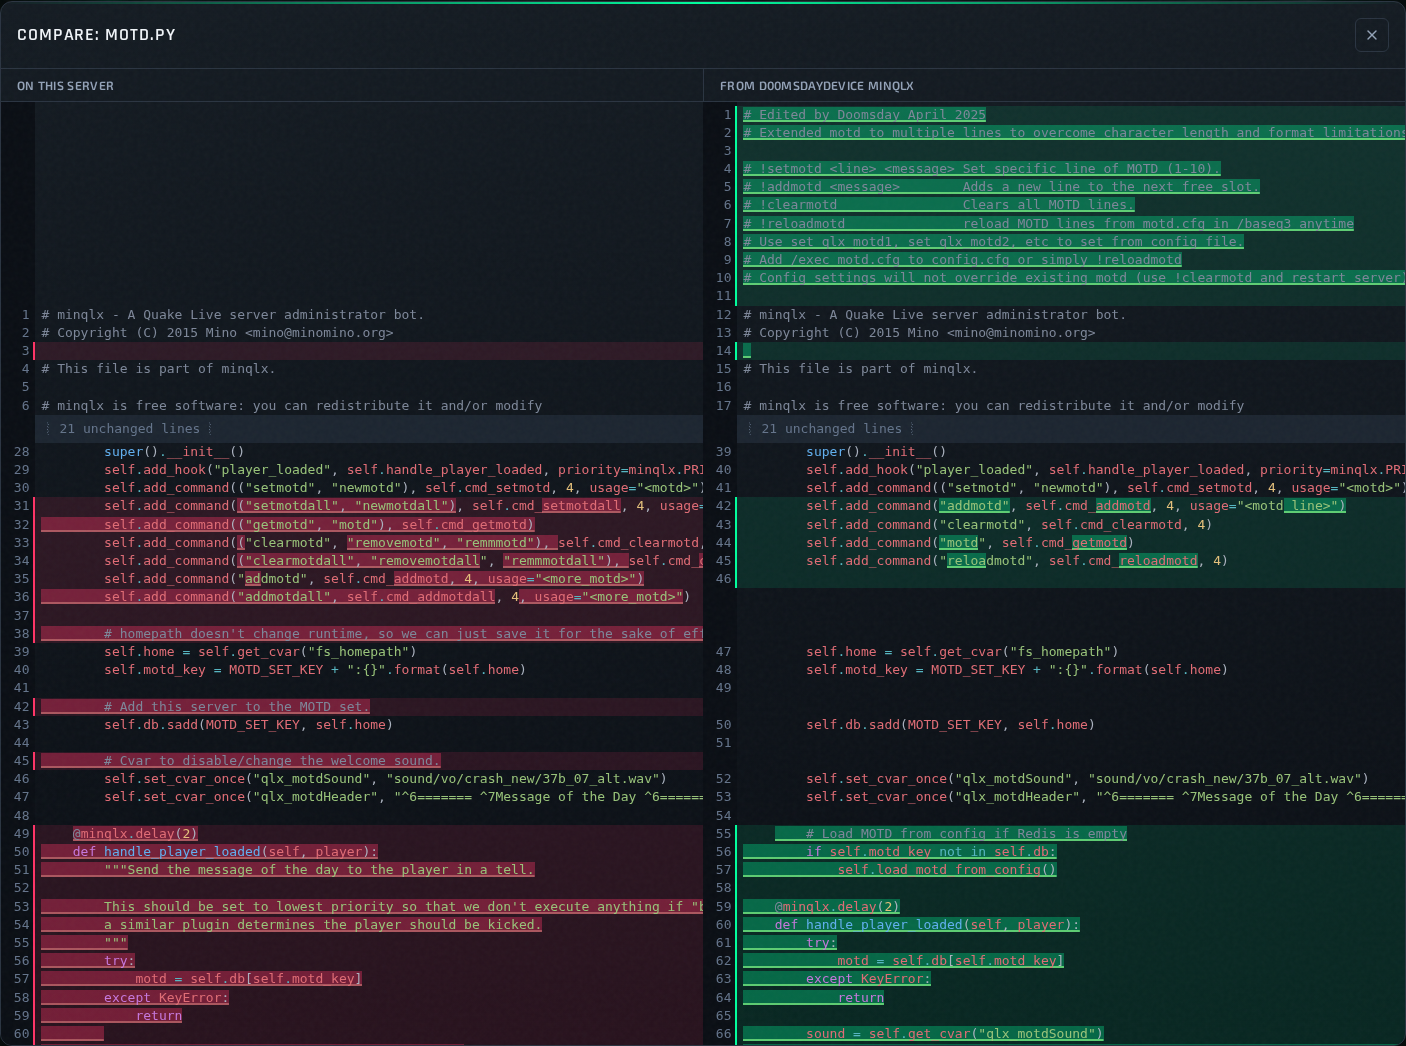
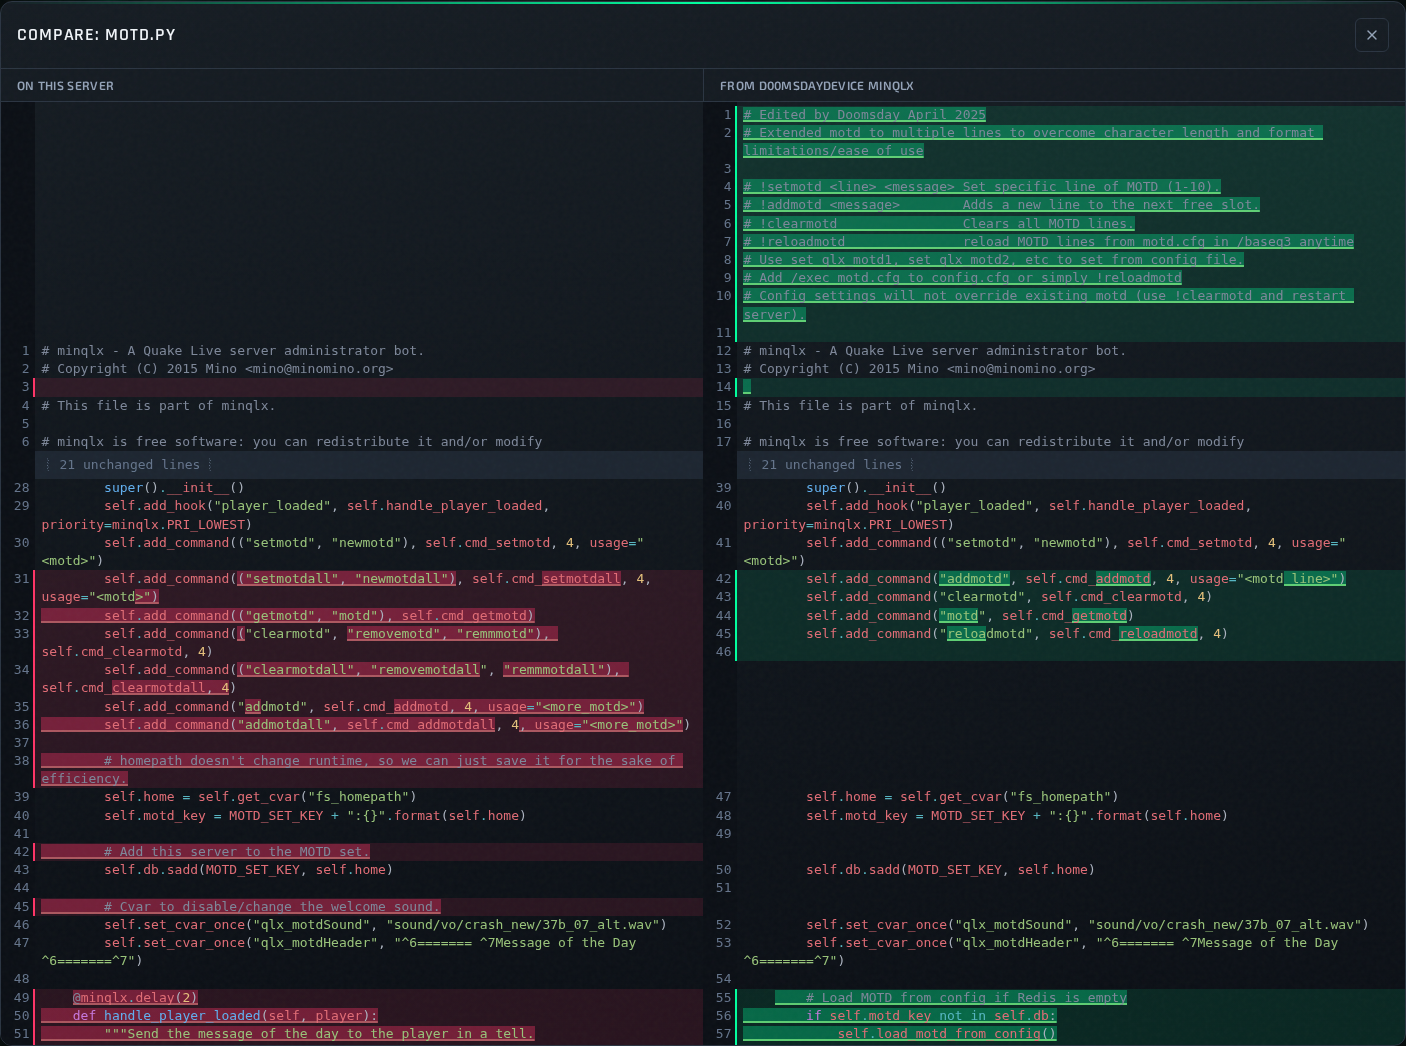
fix(plugins): wrap long lines in the plugin diff and tighten tests

diff --git a/frontend-react/src/utils/codemirrorSetup.js b/frontend-react/src/utils/codemirrorSetup.js
@@ -141,18 +141,16 @@ const mergeColors = {
 };
 
 const mergeTheme = (c, dark) => EditorView.theme({
-  // Inside a MergeView the outer .cm-mergeView scrolls, so each editor
-  // grows to its content instead of filling its parent.
-  '&': { height: 'auto' },
   '&.cm-merge-a .cm-changedLine': { backgroundColor: `${c.removedLine} !important` },
   '&.cm-merge-a .cm-changedText': { backgroundColor: c.removedText, textDecoration: 'none' },
   '&.cm-merge-b .cm-changedLine': { backgroundColor: `${c.addedLine} !important` },
   '&.cm-merge-b .cm-changedText': { backgroundColor: c.addedText, textDecoration: 'none' },
   '&.cm-merge-a .cm-changedLineGutter': { backgroundColor: c.gutterRemoved },
   '&.cm-merge-b .cm-changedLineGutter': { backgroundColor: c.gutterAdded },
-  // The panes have no scroller of their own here (see the height rule above),
-  // so a search panel would sit at the top of a document-tall editor and
-  // scroll away. Pin it to the top of the visible diff instead.
+  // @codemirror/merge's base theme makes each pane document-tall, and the
+  // `.plugin-diff-view` block in index.css hands the scrolling to the modal
+  // body, so a search panel would sit at the top of a document-tall editor
+  // and scroll away. Pin it to the top of the visible diff instead.
   '& .cm-panels-top': {
     position: 'sticky',
     top: '0',

diff --git a/frontend-react/src/components/pluginRepositories/PluginDiffModal.jsx b/frontend-react/src/components/pluginRepositories/PluginDiffModal.jsx
@@ -31,6 +31,10 @@ function sideExtensions(isDark) {
     // bottom panel would open thousands of pixels below the fold.
     search({ top: true }),
     keymap.of(searchKeymap),
+    // Each pane is document-tall inside the modal body's scroller, so its own
+    // horizontal scrollbar sits below the fold and is unreachable -- without
+    // wrapping, a long line is simply cut off mid-token. Wrap instead.
+    EditorView.lineWrapping,
     ...themeExtensions(isDark),
     ...mergeThemeExtensions(isDark),
   ];

diff --git a/frontend-react/src/pages/__tests__/PluginRepositoriesPage.test.jsx b/frontend-react/src/pages/__tests__/PluginRepositoriesPage.test.jsx
@@ -53,6 +53,9 @@ describe('PluginRepositoriesPage downloads', () => {
   beforeEach(() => {
     vi.clearAllMocks();
     mocks.getPluginRepositories.mockResolvedValue([REPO]);
+    // Default resolution so a future Diff-click test fails on its own
+    // assertion rather than on an unhandled rejection from the modal's fetch.
+    mocks.getPluginRepositoryDiff.mockResolvedValue({ local: '', remote: '' });
   });
 
   it('shows a success toast on a clean download', async () => {

diff --git a/tests/test_plugin_repository_routes.py b/tests/test_plugin_repository_routes.py
@@ -716,6 +716,7 @@ def test_diff_rejects_unsafe_filenames(client, app, monkeypatch, tmp_path, case,
     )
 
     assert response.status_code == 400
+    assert response.get_json()['error']['message'] == f"Refusing to diff unsafe filename: '{filename}'"
     assert fetched == []
 
 
@@ -765,6 +766,7 @@ def test_diff_unknown_repository_is_404(client, app, monkeypatch, tmp_path):
     response = client.get('/api/plugin-repositories/9999/diff?filename=balance2.py', headers=headers)
 
     assert response.status_code == 404
+    assert response.get_json()['error']['message'] == 'Repository not found.'
 
 
 def test_diff_fetch_failure_is_422_not_502(client, app, monkeypatch, tmp_path):

diff --git a/docs/architecture.md b/docs/architecture.md
@@ -95,7 +95,7 @@ graph TD
     * **Plugin Manifests & Repositories:**
         * `ui/plugin_manifest.py`: Reads an optional `<plugin>.ql-plugin.json` sidecar next to a `.py` plugin, supplying the label, description and editable cvar list the Plugins tab shows. The shared pool is the source of truth over a preset or instance copy.
         * `ui/plugin_pool.py`: Resolves and lists the shared pool (`ql-assets/data/<runtime>-plugins/`), whose root-level plugins are loadable by any instance on that runtime.
-        * `ui/plugin_repositories.py`: The one component that makes **outbound HTTP requests to an operator-supplied address** — it fetches a remote `qlsm-plugins.json` and downloads individual plugin files into the shared pool, from where Ansible ships them to every host. A `github.com` URL is rewritten to its `raw.githubusercontent.com` base. Downloaded filenames are constrained to a bare `^[A-Za-z0-9_-]+\.py$` allowlist at both parse and write time. A repo's single `qlsm-plugins.json` can carry each plugin's cvars/commands inline; download writes them into the pool as the plugin's `.ql-plugin.json`, so `ui/plugin_manifest.py` reads them unchanged.
+        * `ui/plugin_repositories.py`: The one component that makes **outbound HTTP requests to an operator-supplied address** — it fetches a remote `qlsm-plugins.json`, downloads individual plugin files into the shared pool, from where Ansible ships them to every host, and — for the overwrite prompt's Diff window — fetches a read-only copy of a single plugin so the repository version can be compared against the pool copy without writing anything. A `github.com` URL is rewritten to its `raw.githubusercontent.com` base. Downloaded filenames are constrained to a bare `^[A-Za-z0-9_-]+\.py$` allowlist at both parse and write time. A repo's single `qlsm-plugins.json` can carry each plugin's cvars/commands inline; download writes them into the pool as the plugin's `.ql-plugin.json`, so `ui/plugin_manifest.py` reads them unchanged.
     * **Supporting Modules:**
         * `ui/task_logic/zmq_utils.py`: ZMQ connection utilities for RCON service.
         * `ui/task_logic/job_failure_handlers.py`: RQ failure callbacks.
